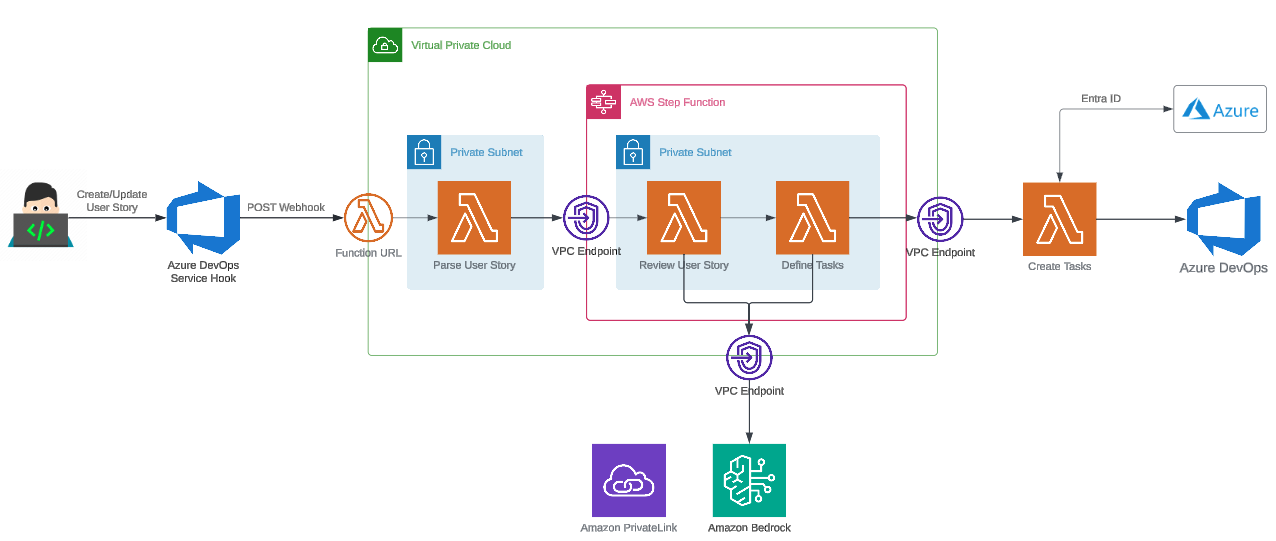
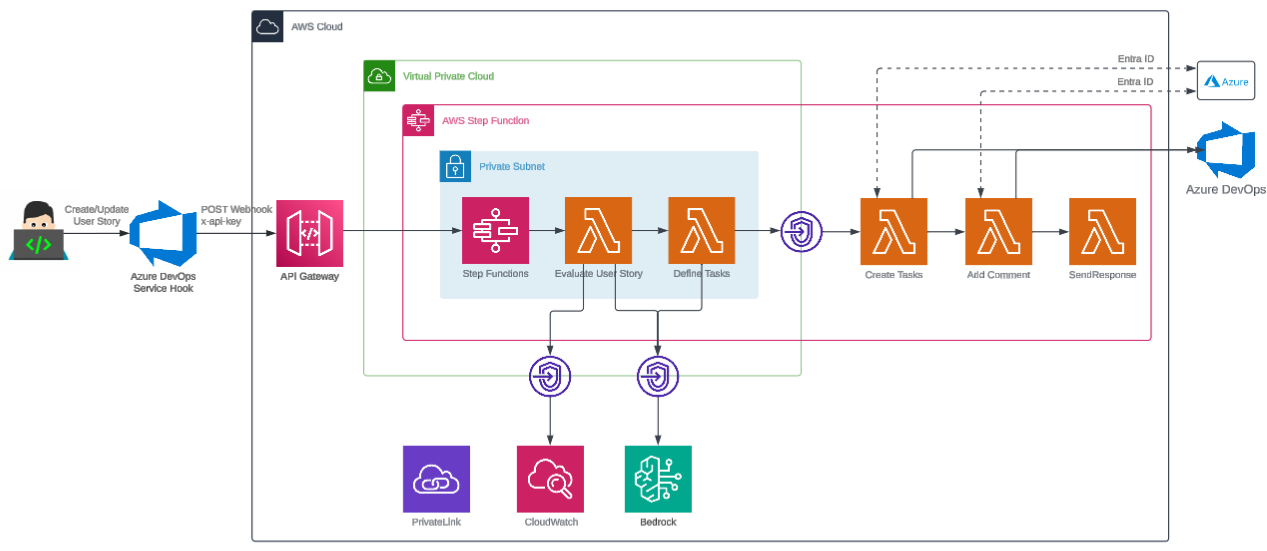
Update readme

Changed region(s): [[0.0, 0.0, 1.0, 0.7394], [0.1847, 0.7985, 0.9234, 1.0]]

diff --git a/frontend/components/playground/tasks-display.tsx b/frontend/components/playground/tasks-display.tsx
@@ -39,8 +39,8 @@ export function TasksDisplay({ isSubmitting, tasks }: { isSubmitting: boolean; t
 
             <ScrollArea className='flex-grow overflow-auto pr-4'>
               <div className='space-y-4 pb-2'>
-                {tasks.map((task) => (
-                  <TaskCard key={task.id} task={task} />
+                {tasks.map((task, i) => (
+                  <TaskCard key={i} task={task} />
                 ))}
               </div>
             </ScrollArea>

diff --git a/frontend/components/playground/user-story-form.tsx b/frontend/components/playground/user-story-form.tsx
@@ -385,9 +385,6 @@ export function UserStoryForm() {
                 </ScrollArea>
 
                 <div className='pt-6 flex-shrink-0 flex justify-end space-x-4'>
-                  <Button variant='outline' disabled={isSubmitting} onClick={() => form.reset()}>
-                    Reset Form
-                  </Button>
                   <Button type='submit' disabled={isSubmitting}>
                     {isSubmitting ? (
                       <>

diff --git a/README.md b/README.md
@@ -1,16 +1,61 @@
-# Task Genie
+i# Task Genie
+
+Task Genie integrates directly in Azure DevOps Boards, utilizing AI services powered by Amazon Bedrock, to ensure the completeness of user stories and automatically breaks them down into actionable tasks, streamlining the Agile process and enhancing developer productivity.
+
+## Features
+
+1. User Story Validation
+
+   - Ensures user stories follow best practices
+   - Identifies missing components in user stories
+   - Provides suggestions to improve clarity and completeness
+
+2. Task Breakdown
+
+   - Automatically decomposes validated user stories into smaller, actionable tasks
+   - Ensures tasks align with agile methodologies for efficient development
+
+3. Azure DevOps Boards integration
+
+   - Supports integration with Azure DevOps Boards to automatically update work items and tasks
+
+4. Powerful Insights
+
+   - Built-in dashboards to visualize performance and effectiveness of task generation
+   - Offers recommendations for improving workflows based on historical data
+   - Detects potential bottlenecks or ambiguities in user stories
+
+## Architecture
+
+The architecture is deployed in AWS using a serverless model using AWS PrivateLink for private network communication between all AWS services. Integration with Azure DevOps is done through Service Hooks for each board.
 
 ![architecture](/docs/architecture.png)
+
+A state machine, leveraging AWS Step Functions, orchestrates the workflow for the interaction with the LLM.
+
+![state_machine](/docs/state_machine.png)
+
+### Technology
+
+|                                                                                                                                      |     Technology      |
+| :----------------------------------------------------------------------------------------------------------------------------------: | :-----------------: |
+|     <img height="30" src="https://raw.githubusercontent.com/marwin1991/profile-technology-icons/refs/heads/main/icons/aws.png">      | Amazon Web Services |
+|   <img height="30" src="https://raw.githubusercontent.com/marwin1991/profile-technology-icons/refs/heads/main/icons/next_js.png">    |       Next.js       |
+|  <img height="30" src="https://raw.githubusercontent.com/marwin1991/profile-technology-icons/refs/heads/main/icons/shadcn_ui.png">   |      ShadCn UI      |
+| <img height="30" src="https://raw.githubusercontent.com/marwin1991/profile-technology-icons/refs/heads/main/icons/tailwind_css.png"> |    Tailwind CSS     |
+|  <img height="30" src="https://raw.githubusercontent.com/marwin1991/profile-technology-icons/refs/heads/main/icons/typescript.png">  |     TypeScript      |
 
 ## Getting Started
 
 ### Pre-requisites
 
-1. Create a PAT in AzureDevOps
+1. Create a PAT in AzureDevOps (until service principal is setup)
 
 ### Deployment
 
-1. Update the .env with the parameters
+#### Backend
+
+1. Update the `/backend/.env` file with the parameters:
 
    ```
    AZURE_DEVOPS_PAT=
@@ -25,15 +70,62 @@
    npm run install
    ```
 
-3. Deploy the backend
+3. Deploy the backend (default to observability2 AWS profile)
 
    ```
    npm run deploy
    ```
 
-### Post-setup (one-time)
+#### Frontend
 
-1. Create 4 Service hooks in the ADO project setttings
+The frontend is deployed using AWS Amplify.
+
+To run the frontend locally:
+
+1. Update the `/frontend/.env.local` file with the parameters from the backend deployment:
+
+   ```
+   NEXT_PUBLIC_COGNITO_USER_POOL_ID=
+   NEXT_PUBLIC_COGNITO_CLIENT_ID=
+   NEXT_PUBLIC_API_GATEWAY_URL=
+   NEXT_PUBLIC_API_GATEWAY_API_KEY=
+   ```
+
+2. Install dependencies
+
+   ```
+   npm run install
+   ```
+
+3. Run the frontend
+
+   ```
+   npm run dev
+   ```
+
+### Azure DevOps configuration (one-time, per board)
+
+The integration with Azure DevOps leverages Service Hooks and requires 4 Service Hooks to be created for each Board.
+
+- Work item created
+- Work item updated (title)
+- Work item updated (description)
+- Work item updated (acceptance criteria)
+
+![service_hooks](/docs/service_hooks.png)
+
+1. In the Azure DevOps project, click on the gear to open the Project Settings
+
+2. Click on Service hooks
+
+3. Click the '+' plus sign to create a new Service Hook
+
+4. Create four (4) Service Hooks with the following configuration:
+   - **Trigger on this type of event:** work item created (1), work item updated (3)
+   - **Area path:** the name of the Azure DevOps project to configure
+   - **Work item type:** User Story
+   - **URL:** the API Gateway URL from the backend deployment
+   - **HTTP headers:** Set this to x-api-key:<the API Gateway API Key from the backend deployment>
 
 ## Refining the AI Prompt
 

diff --git a/TODO.md b/TODO.md
@@ -12,4 +12,3 @@
 - Add Knowledge Bases
 - TD: Update the existing API endpoint to IP whitelist Azure DevOps IPs
 - TD: Review Azure DevOps API calls to handle errors
-- TD: Add documentation on how to create ADO Service Hooks
